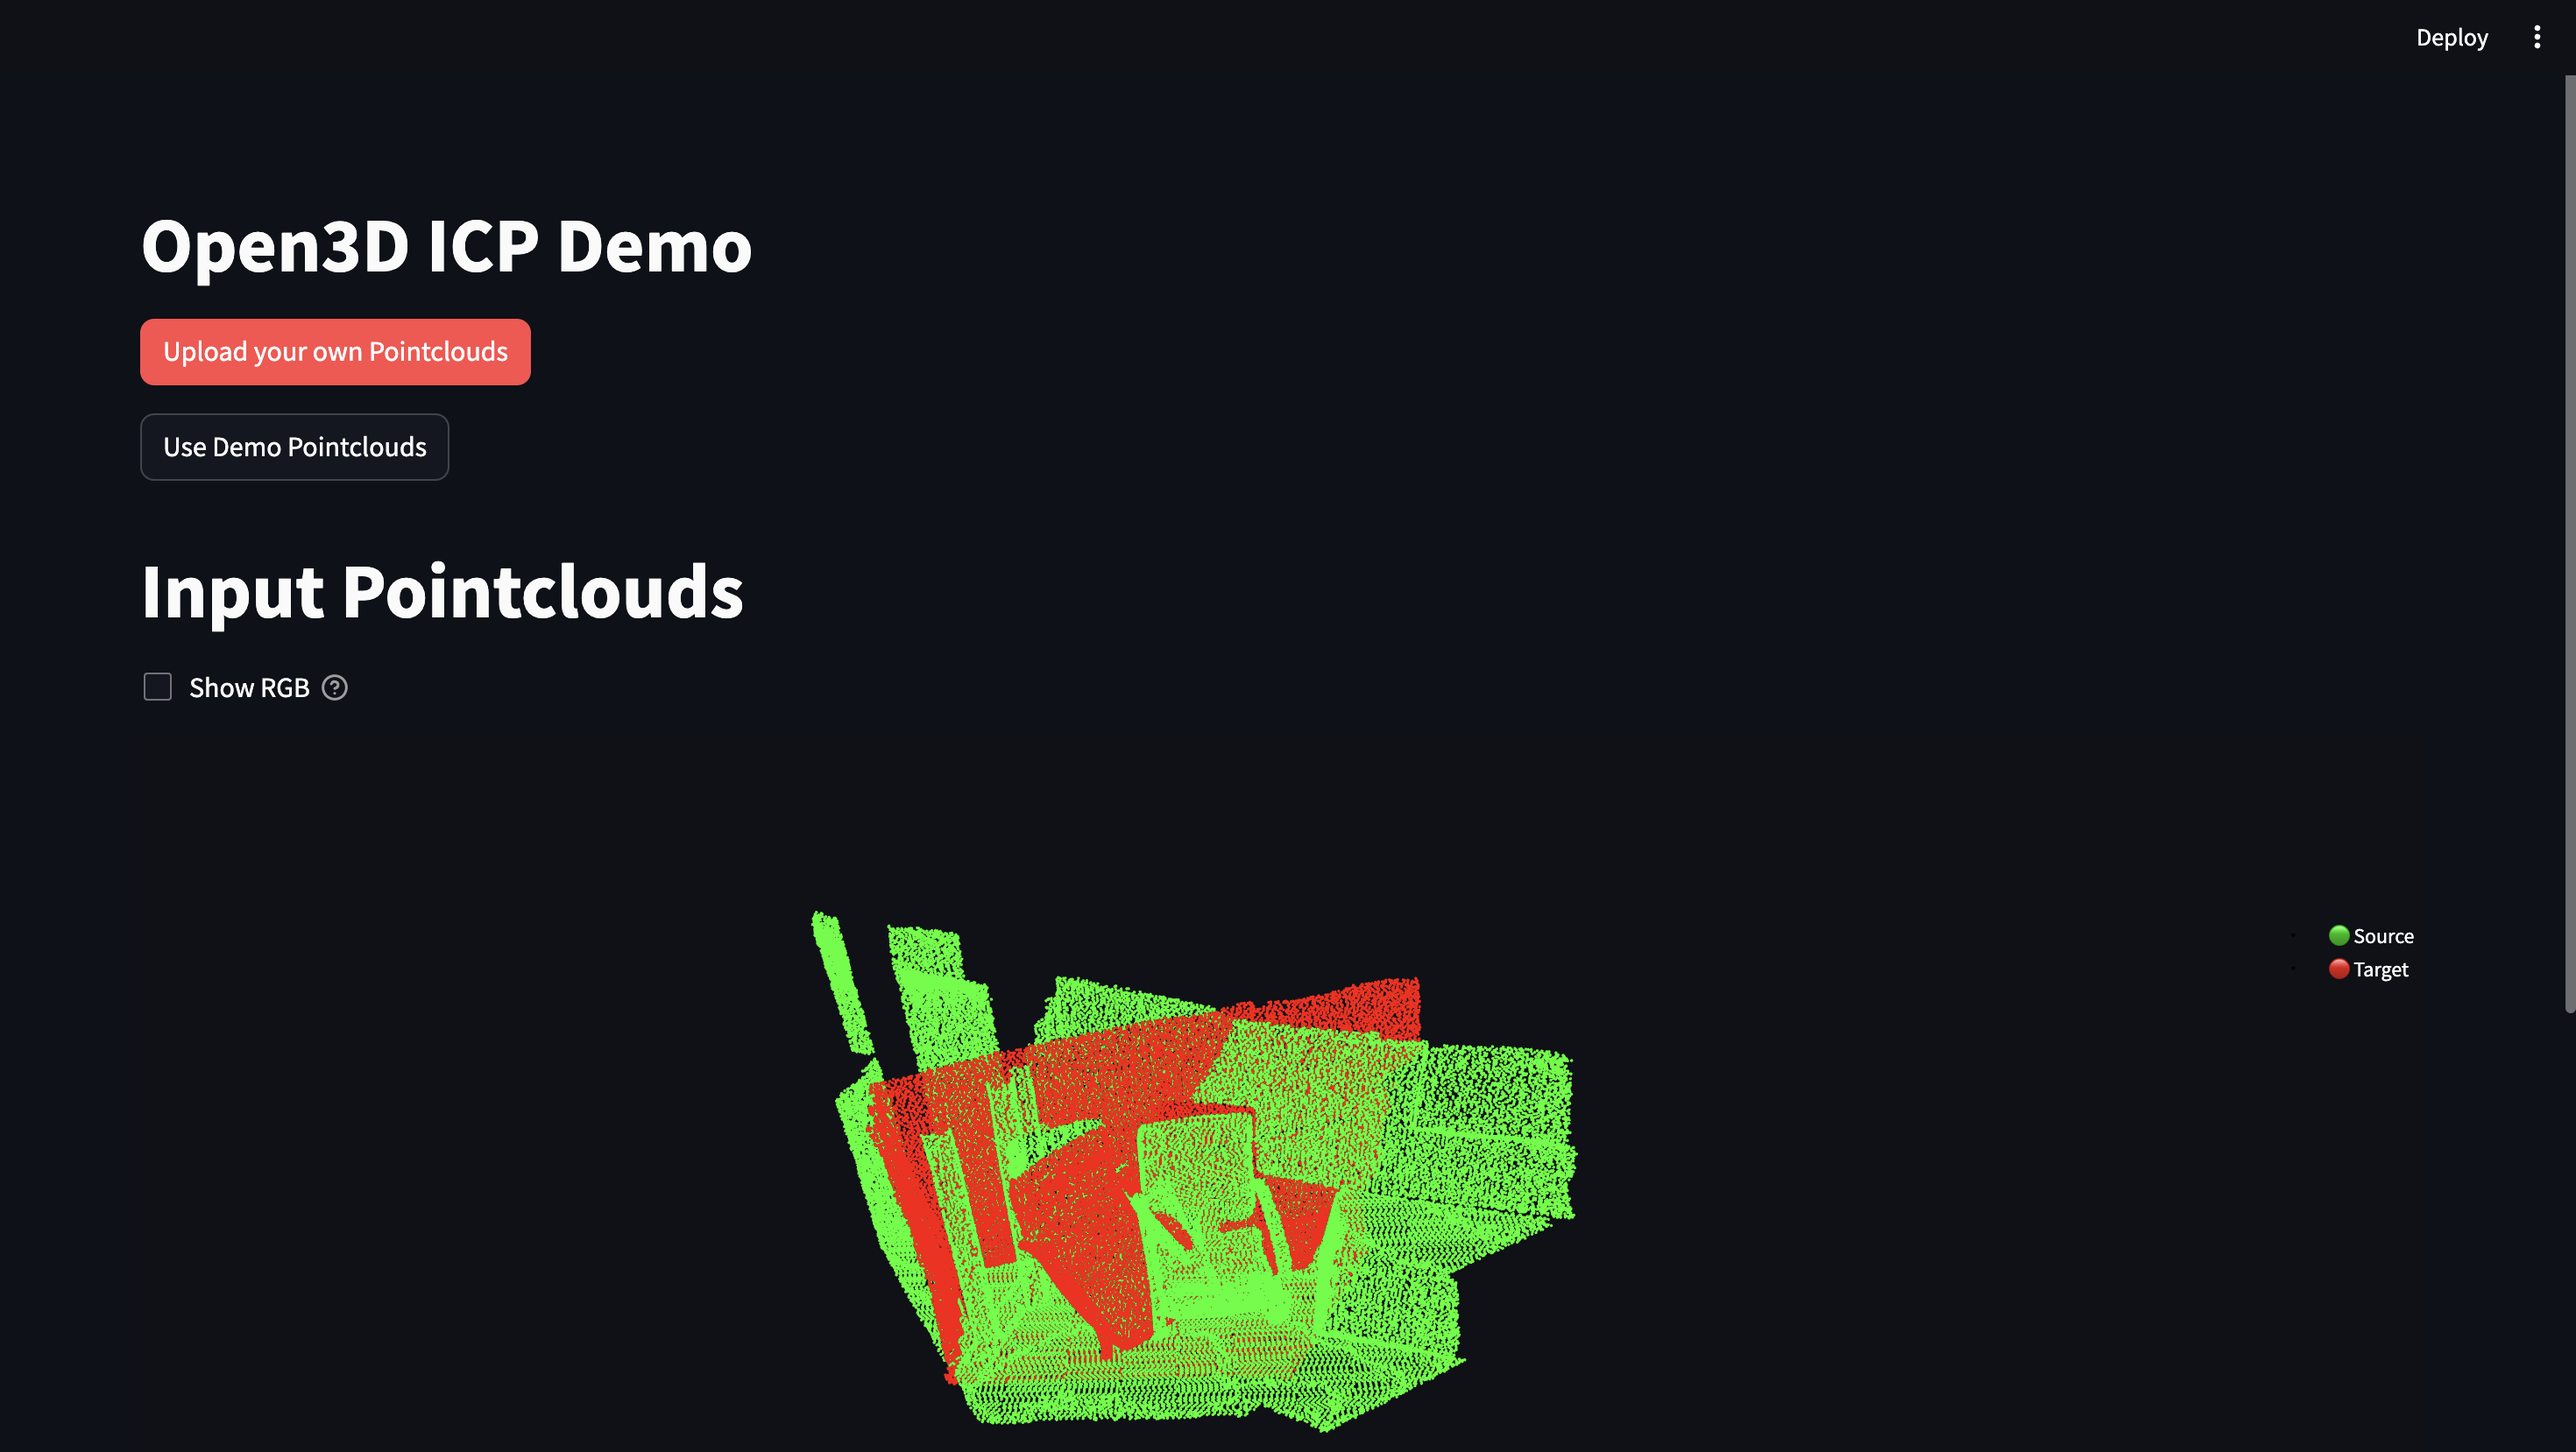
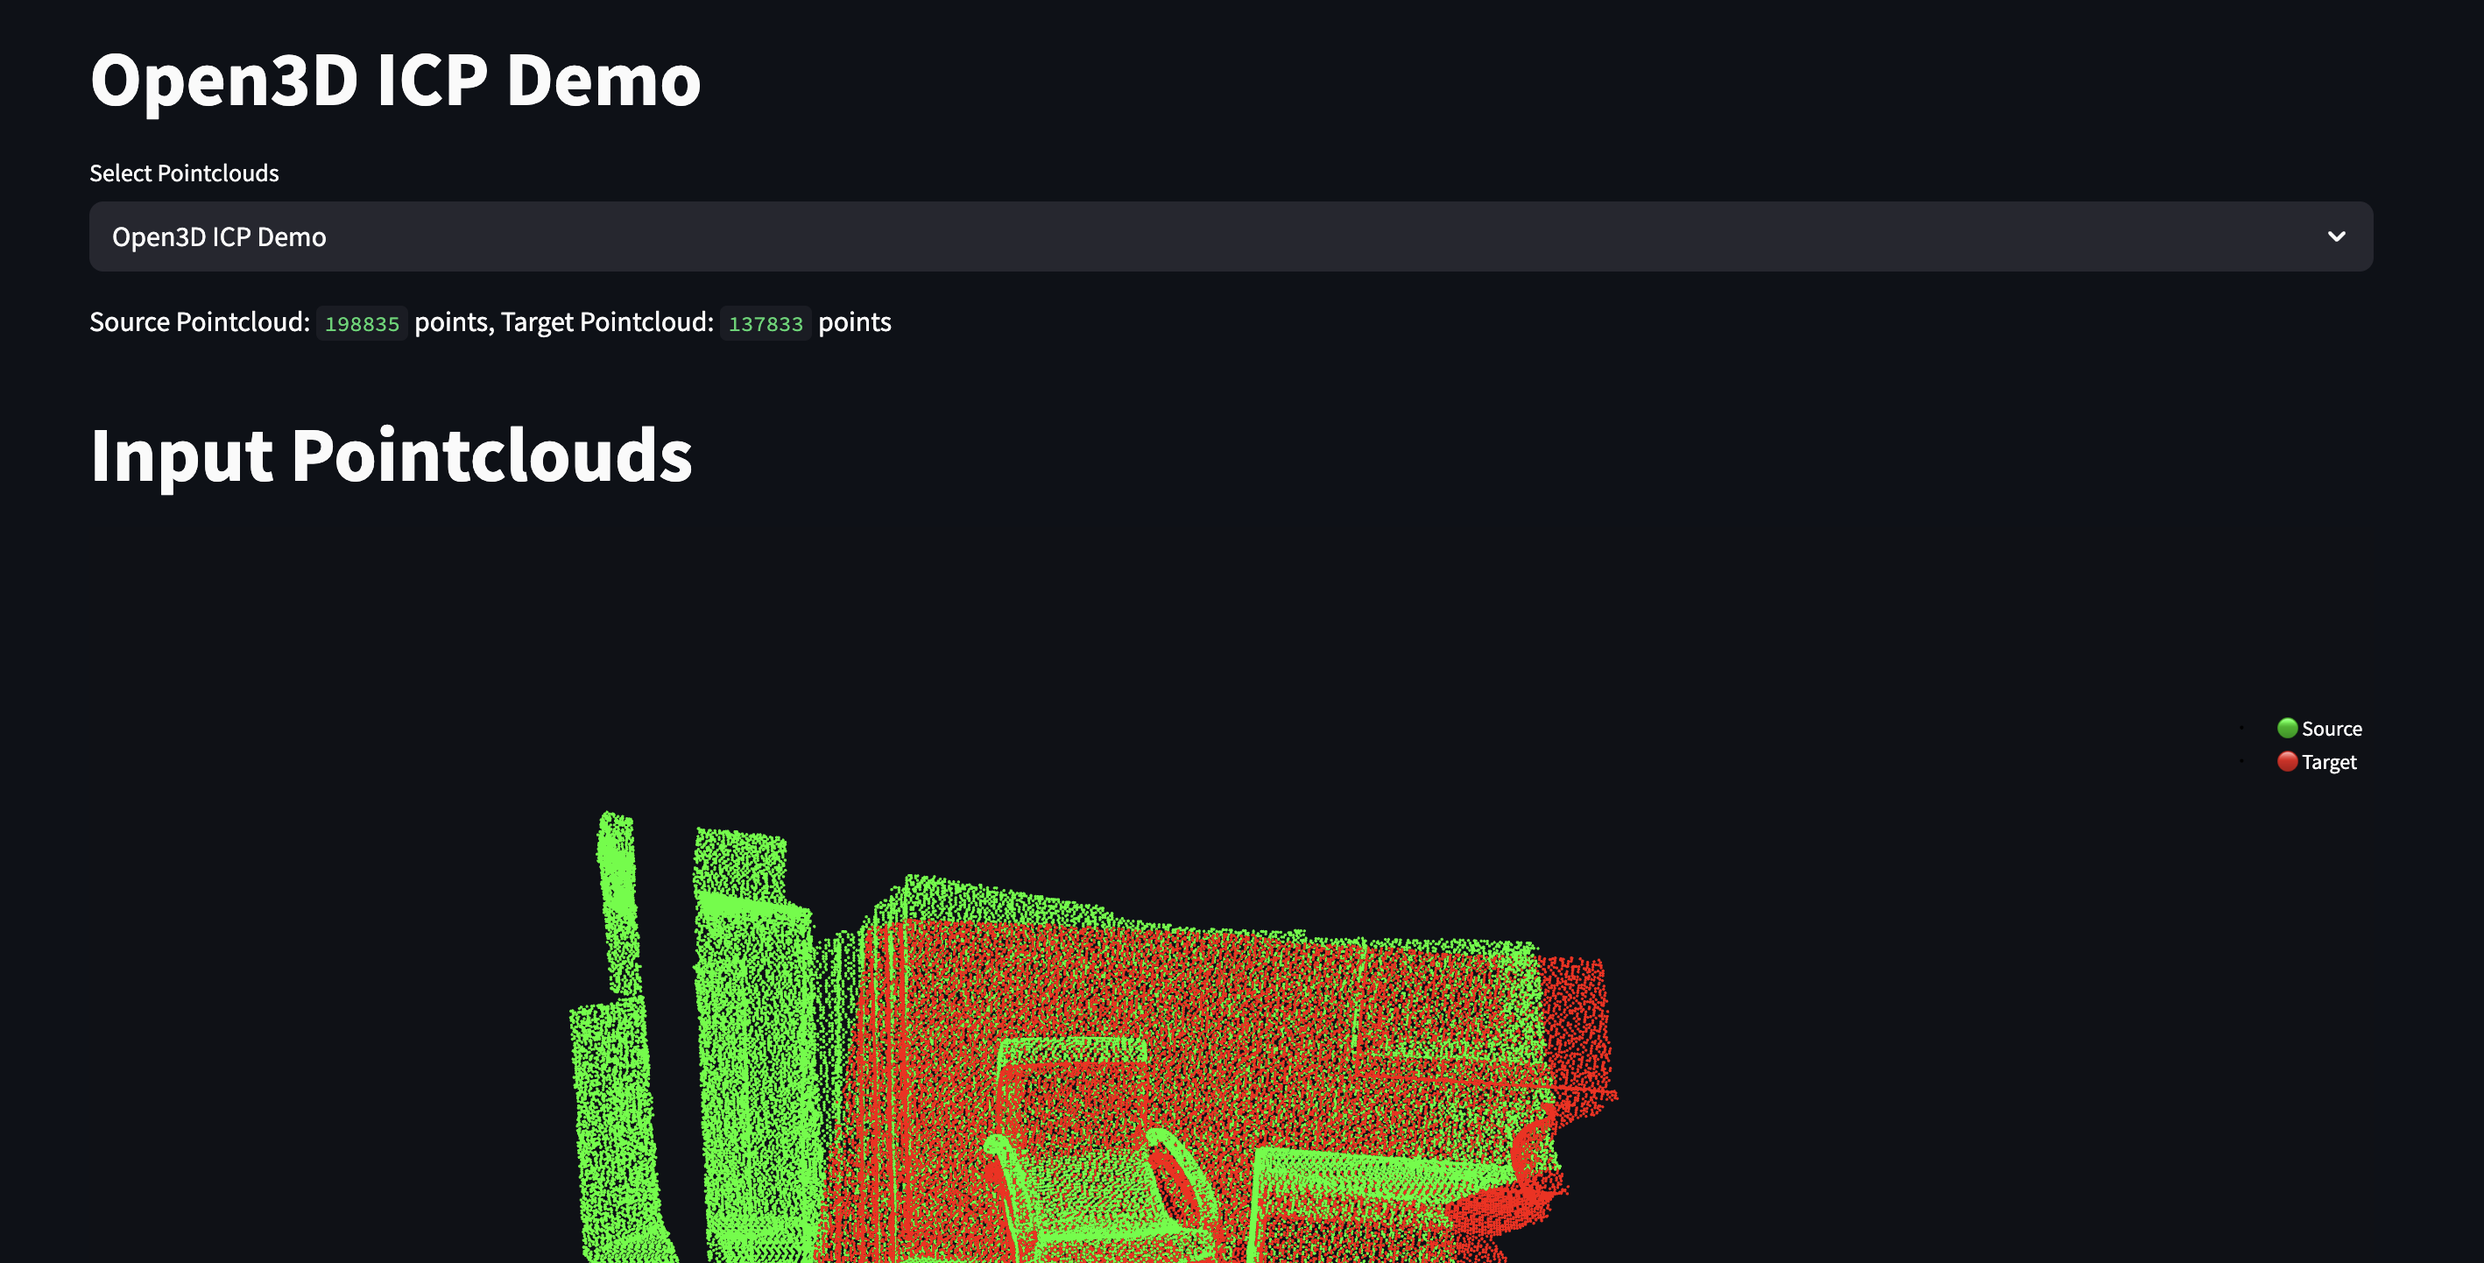
feat: update readme, screenshot, streamlit badge

diff --git a/README.md b/README.md
@@ -1,3 +1,5 @@
+[![Streamlit App](https://static.streamlit.io/badges/streamlit_badge_black_white.svg)](https://icp-demo.streamlit.app)
+
 # icp-demo
 Deployable Streamlit app showing ICP pointcloud registration demo with Open3D library
 
@@ -12,3 +14,14 @@ streamlit run streamlit_app.py
 ### Open the app
 Open your browser and go to `http://localhost:8501` to view the app:
 ![App Screenshot](screenshot.png)
+
+### Usage
+1. Choose default demo pointclouds or upload your own
+2. Check the input pointclouds in the 3D viewer
+3. Check and modify ICP parameters in the dropdown menu
+4. Click "Run ICP" to perform the registration
+5. See the logs of the convergence of the ICP algorithm
+6. View the aligned pointclouds in the 3D viewer
+
+### Public Streamlit App
+You can also view the app online at [icp-demo.streamlit.app](https://icp-demo.streamlit.app)
